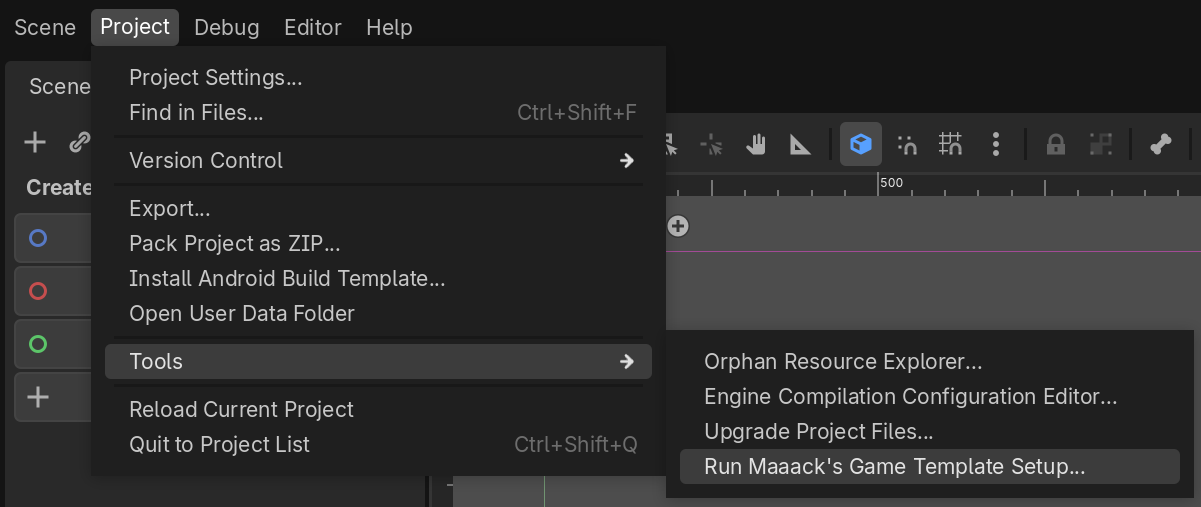
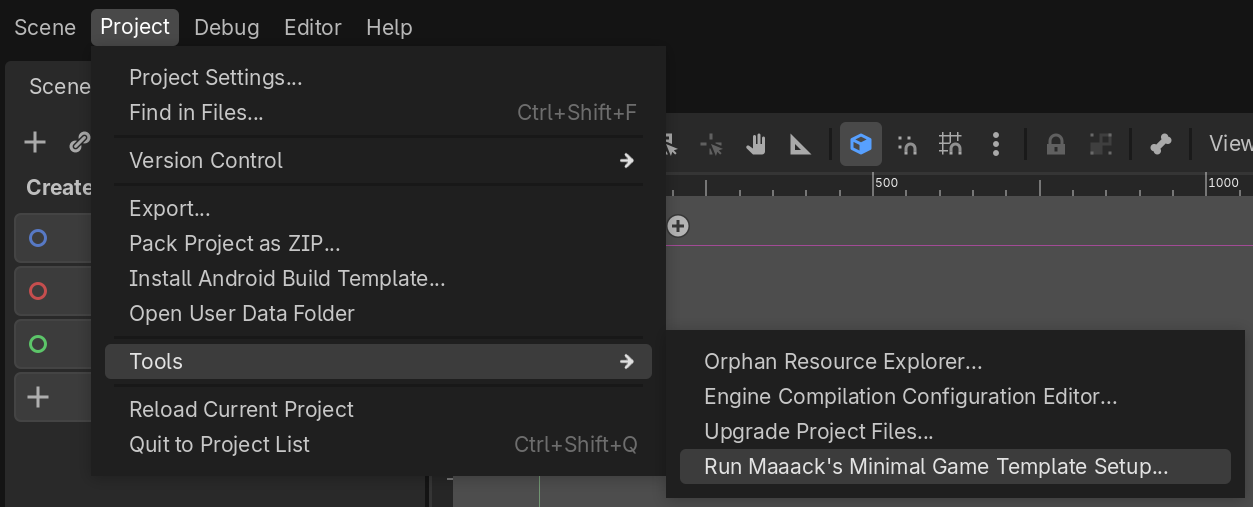
Changes for minimal edition.

diff --git a/addons/maaacks_game_template/docs/BasicSetup.md b/addons/maaacks_game_template/docs/BasicSetup.md
@@ -14,14 +14,13 @@ Open the _Setup Wizard_ by navigating to `Project > Tools > Run Maaack's Minimal
 
 ### Check & Complete
 
- A typical full installation will have the following steps completed:  
+A typical full installation will have the following steps completed:  
 -  Using Latest Version
 -  Copy Example Files
 -  Delete Example Files
--  Update Autoload Paths
 -  Set Main Scene
 
-![Setup Wizard of Game Template v1.4.4](/addons/maaacks_game_template/media/setup-wizard-window.png)
+![Setup Wizard Window](/addons/maaacks_game_template/media/setup-wizard-window.png)
 
 Depending on how the template was installed, or if any issues occurred, some of these may need to be run from the wizard to be completed.
 
@@ -34,15 +33,33 @@ The flow of scenes in the template is (by default):
 Opening -> Main Menu -> Game Scene -> Ending Scene
 ```   
 
-To change the _Main Menu_, _Game Scene_, or _Ending Scene_:
+To change the _Main Menu_:
 
-1.  Open `app_config.tscn`.
-2.  Select the `AppConfig` node.
-3.  Update `Main Menu Scene Path` to the desired path (`main_menu_with_animations.tscn` by default).  
-4.  Update `Game Scene Path` to the path of the project's game scene (`game_ui.tscn` by default).  
-5.  Update the optional `Ending Scene Path` to the desired scene (`end_credits.tscn` by default).  
-6.  Save the scene.
-    
+1.  Open `opening.tscn`.
+2.  Select the `Opening` root node.
+3.  Update `Next Scene Path` to the desired path (`main_menu_with_animations.tscn` by default).  
+4.  Save the scene.
+
+Other scenes that need updating:
+- `pause_menu_layer.tscn`
+- `game_ui.tscn` (`level_manager.gd`)  
+- `end_credits.tscn`  
+
+To change the _Game Scene_:
+
+1.  Open `main_menu_with_animations.tscn`.
+2.  Select the `MainMenu` root node.
+3.  Update `Game Scene Path` to the path of the project's game scene (`game_ui.tscn` by default).  
+4.  Save the scene.
+
+To change the _Ending Scene_:
+
+1.  Open `game_ui.tscn`.
+2.  Select the `LevelManager` node.
+3.  Expand the `Scenes` Option Group in the Inspector.
+4.  Update the optional `Ending Scene Path` to the desired scene (`end_credits.tscn` by default).  
+5.  Save the scene.
+
 To change the _Opening_:
 
 1.  Navigate to `Project > Project Settings…`
@@ -57,12 +74,8 @@ To change the _Opening_:
 2.  [Options Menu Setup](/addons/maaacks_game_template/docs/OptionsMenuSetup.md)  
 3.  [Game Scene Setup](/addons/maaacks_game_template/docs/GameSceneSetup.md)  
 4.  [Updating Credits](/addons/maaacks_game_template/docs/UpdatingCredits.md)  
-5.  [Blending Music](/addons/maaacks_game_template/docs/BlendingMusic.md)  
-6.  [Adding UI Sound Effects](/addons/maaacks_game_template/docs/AddingUISFX.md)  
 
 ### Extra
 1.  [Adding Icons to the Input Options](/addons/maaacks_game_template/docs/InputIconMapping.md)  
 2.  [Supporting Joypad Inputs](/addons/maaacks_game_template/docs/JoypadInputs.md)  
-3.  [Loading scenes asynchronously](/addons/maaacks_game_template/docs/LoadingScenes.md)  
-4.  [Utilizing Game Saving](/addons/maaacks_game_template/docs/GameSaving.md)  
 5.  [Uploading to itch.io](/addons/maaacks_game_template/docs/UploadingToItchIo.md)  

diff --git a/addons/maaacks_game_template/docs/UpdatingCredits.md b/addons/maaacks_game_template/docs/UpdatingCredits.md
@@ -1,32 +1,10 @@
 # Updating Credits
 
-These instructions cover updating the credits / attribution, both in the repo and application.
-
-Credits are parsed automatically from the `ATTRIBUTION.md` file included with the template.
+These instructions cover updating the credits.
 
 ## Steps
 
-1.  Open `ATTRIBUTION.md` in a text or markdown editor.
-2.  Update the file with the project's credits. Refer to [Format Examples](#format-examples).
-3.  Save the changes and close the file.
-4.  Open `credits_label.tscn`.
-5.  Check the `CreditsLabel` has updated with the text.
-    1.  Optionally, disable `Auto Update` and customize the text.
-6.  Save the scene (even if it shows no changes).
-
-### Alternative
-Optionally, `*.md` can be included for export in the _Export_ window's `Resources` tab, and steps 4-6 can be skipped, as `credits_label.tscn` will continue to update from `ATTRIBUTION.md` when exported.
-
-## Format Examples
-### Collaborators
-
-> ### Role
-> Contributor name  
-> [Contributor name w/ link]()  
-
-### Tools or Sourced Assets
-> ### [Asset Type]
-> #### Tool Name/Asset Name/Use Case
-> Author: [Name]()  
-> Source: [Domain : webpage.html]()  
-> License: [License]()
+1.  Open `credits_label.tscn`.
+2.  Select the `CreditsLabel` root node.
+3.  Customize the text.
+4.  Save the scene.
